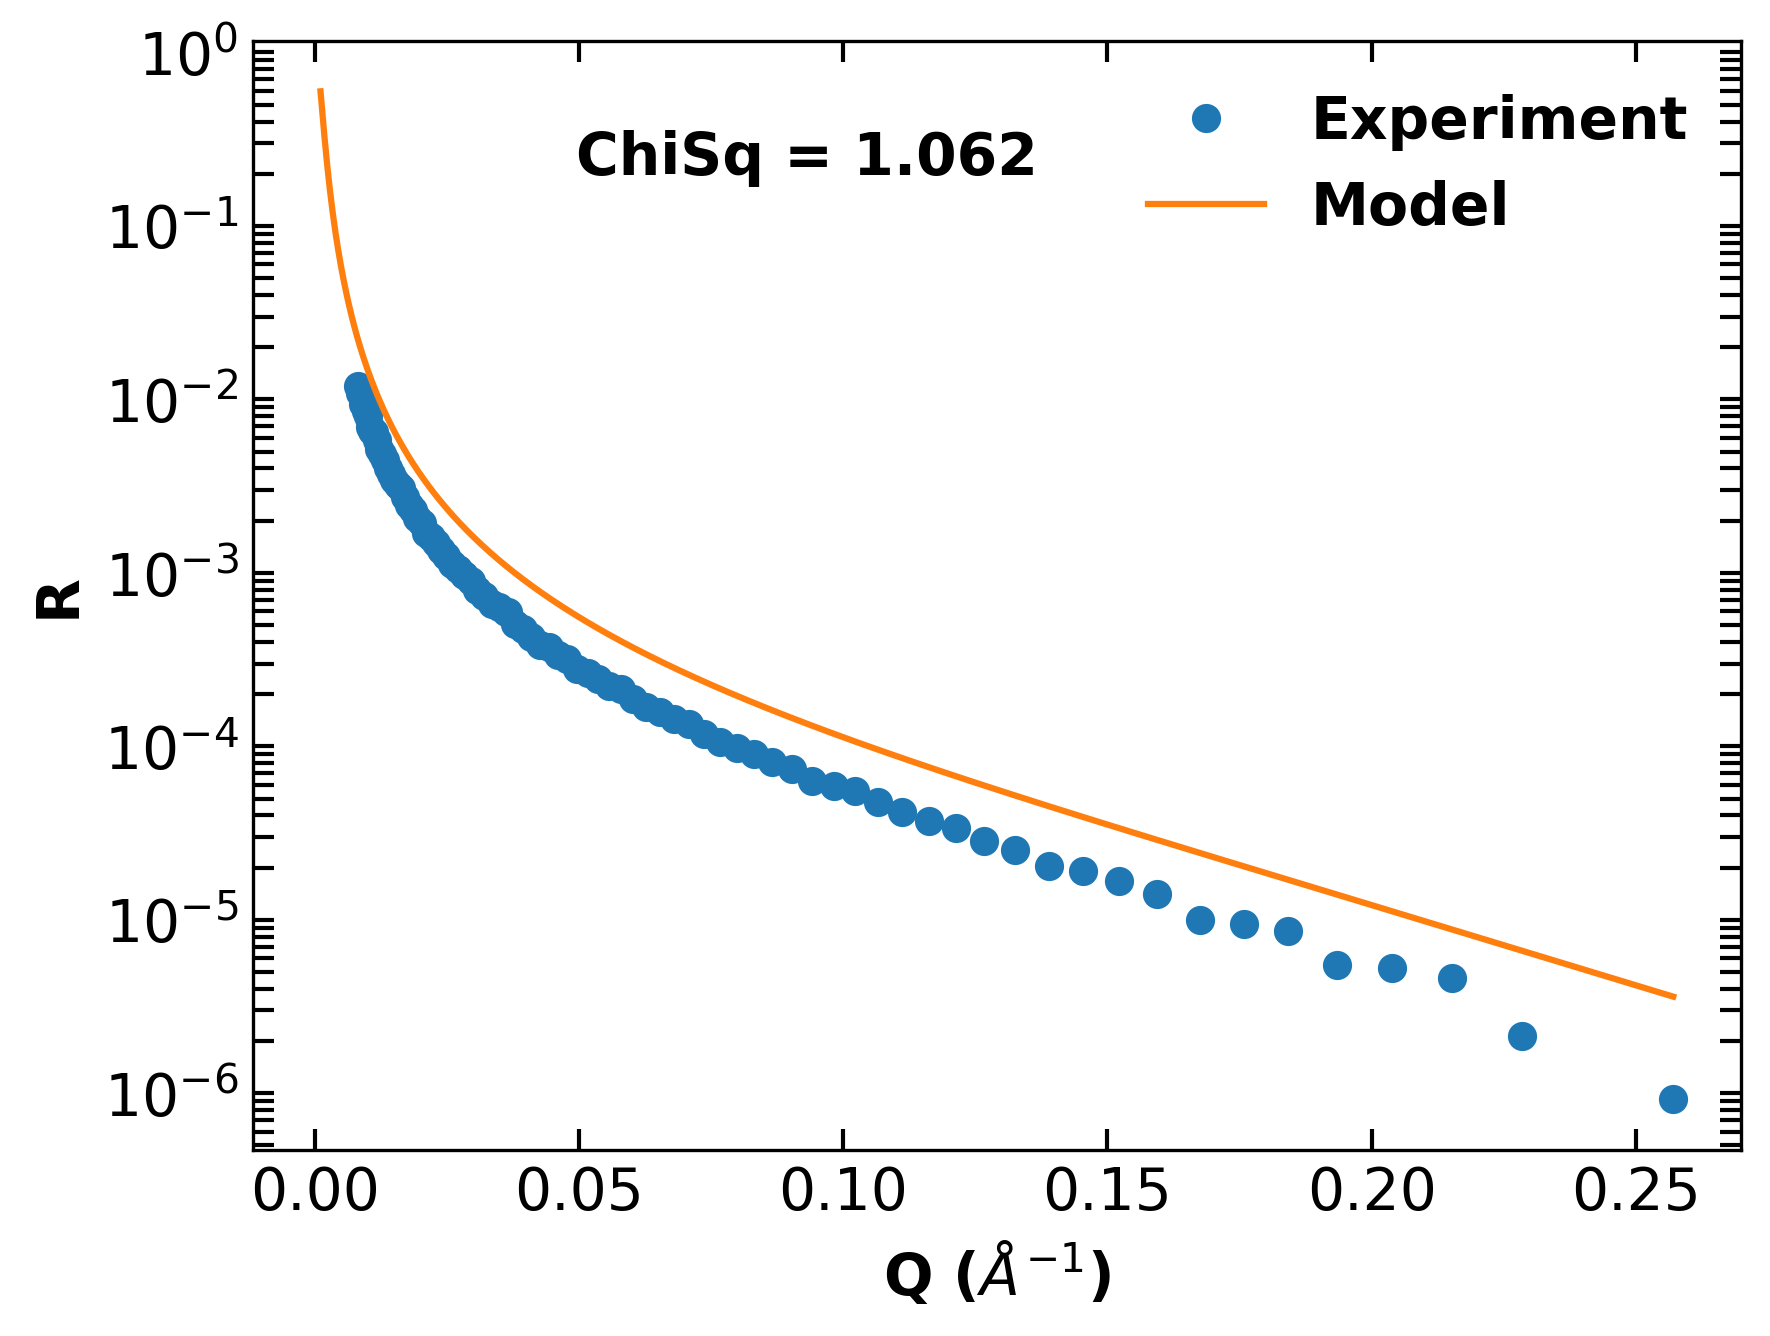
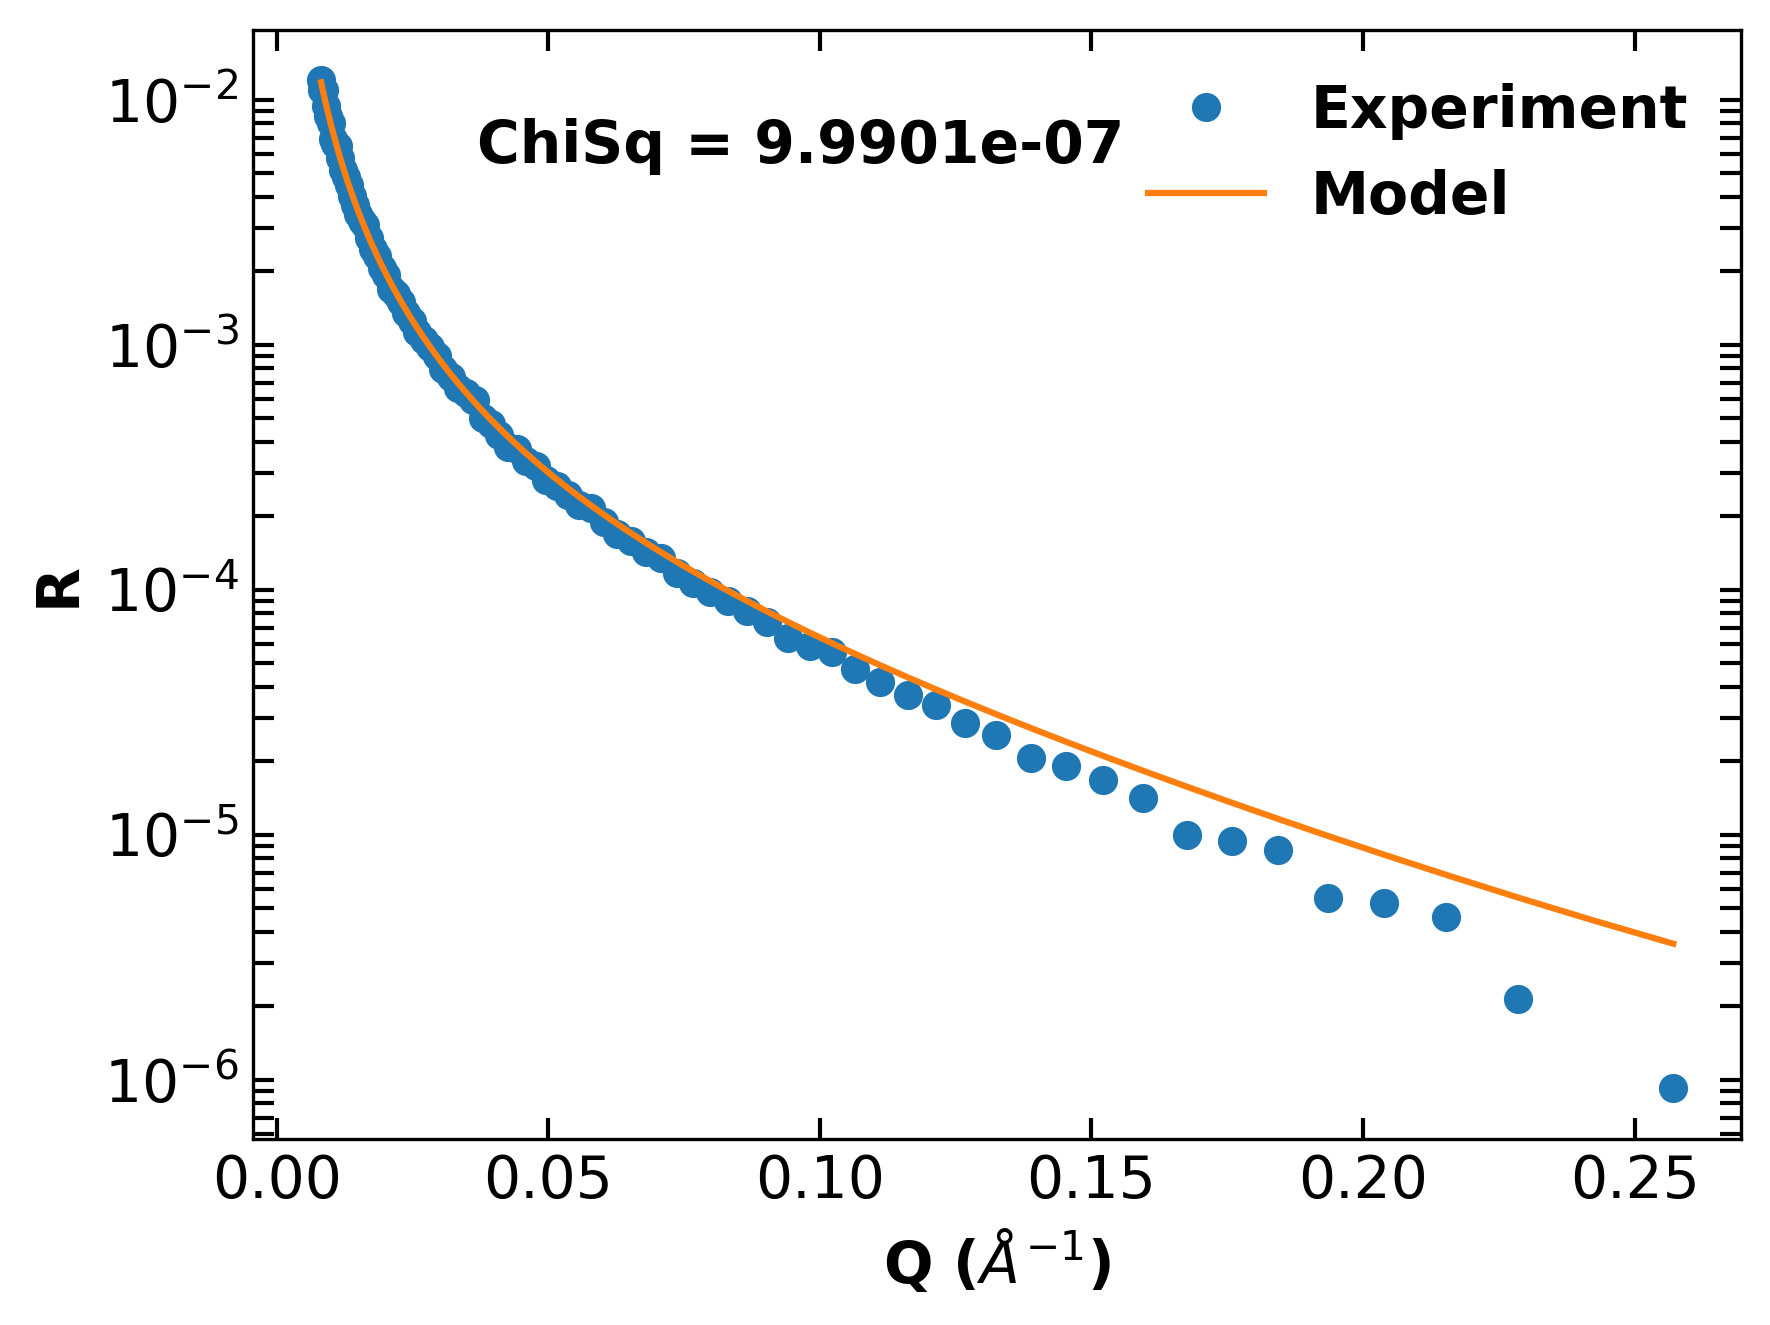
Successful proof of concept!

diff --git a/src/fitNR.py b/src/fitNR.py
@@ -1,14 +1,14 @@
 " Fit NR data "
 
 from anaklasis import ref
+from contextlib import contextmanager
 import matplotlib.pyplot as plt
 import scipy.optimize as opt
 import numpy as np
+import sys, os
 import config
 from genFunc import getFile
 
-from contextlib import contextmanager
-import sys, os
 
 @contextmanager
 def suppress_stdout():
@@ -20,11 +20,8 @@ def suppress_stdout():
         finally:
             sys.stdout = old_stdout
 
-def genModelNR(par,Q):
 
-    # unpack parameters
-    d1 = par[0]
-    d2 = par[1]
+def genModelNR(par,Q):
 
     # project name ('none' = no save)
     project='none'
@@ -32,27 +29,32 @@ def genModelNR(par,Q):
     # We have a single uniform layer with full coverage
     patches=[1.0]
 
-    # Create single model(patch) list; Re_sld Im_sld thk rough solv description
-    model=[
-    	[ 0.000e-6,   0.00e-6,    0, 0.0, 0.00, 'Air'],
-    	[ 6.19302e-6, 0.00e-6,   d1, 3.5, 0.00, 'tails'],
-    	[ 0.7262e-6,  0.00e-6,   d2, 3.5, 0.52, 'inner_heads'],
-    # 	[ 9.41e-6, 0.00e-6, 20, 3.5, 1.0, 'nucleic_acid'],
-    	[ 0.00e-6,    0.00e-6,    0, 3.5, 0.00, 'ACMW'],
-        ]
+    # unpack parameters
+    d1 = par[0]
+    d2 = par[1]
 
-    # model=[ D2O
-    # 	[ 0.000e-6,   0.00e-6,    0, 0.0, 0.00, 'Air'],
-    # 	[ -0.0730e-6, 0.00e-6,   d1, 3.5, 0.00, 'tails'],
-    # 	[ 0.7262e-6,  0.00e-6,   d2, 3.5, 0.52, 'inner_heads'],
-    # # 	[ 9.41e-6, 0.00e-6, 20, 3.5, 1.0, 'nucleic_acid'],
+    # model parameters; col = air, tails, heads, ACMW
+    Re_SLD = [0.000e-6, 6.1932e-6, 0.7262e-6, 0.00e-6]
+    Im_SLD = [0, 0, 0, 0,]
+    Thick  = [0, d1, d2, 0]
+    Rough  = [0, 3.5, 3.5, 3.5]
+    Solv   = [0, 0, 0.522, 0]
+
+    # Create single model(patch) list
+    model=[
+    	[ Re_SLD[0], Im_SLD[0], Thick[0], Rough[0], Solv[0], 'air'    ],
+    	[ Re_SLD[1], Im_SLD[1], Thick[1], Rough[1], Solv[1], 'd-tails'],
+    	[ Re_SLD[2], Im_SLD[2], Thick[2], Rough[2], Solv[2], 'heads'  ],
+    	[ Re_SLD[3], Im_SLD[3], Thick[3], Rough[3], Solv[3], 'ACMW'   ],
+        ]
+    # 	[ 0.7262e-6,  0.00e-6,   d2, 3.5, 0.52, 'h-tails'],
+    # 	[ 9.41e-6, 0.00e-6, 20, 3.5, 1.0, 'nucleic acid'],
     # 	[ 6.10e-6,    0.00e-6,    0, 3.5, 0.00, 'D2O'],
-    #     ]
 
     system       = [model]
     global_param = []
     resolution   = [0.05]
-    background   = [5.0e-7]
+    background   = [4.5e-7]
     scale        = [1.0]
     qmaxIDX      = len(Q)-1
     qmax         = [Q[qmaxIDX]]
@@ -66,15 +68,26 @@ def genModelNR(par,Q):
             res = ref.calculate(project, resolution, patches, system, global_param,
                 background, scale, qmax, plot=False)
 
-    # extract model data
-    #qminIDX = np.where(res[("reflectivity")][:,0] == Q[0])
-    modelQ  = res[("reflectivity")][:,0]
-    modelNR = res[("reflectivity")][:,1]
-
     # close all figures to prevent runtime warning
     plt.close('all')
 
-    return modelQ, modelNR
+    modelQ  = res[("reflectivity")][:,0]
+    modelNR = res[("reflectivity")][:,1]
+
+    # find the closest value in the model array
+    def closest_value(input_list, input_value):
+        arr = np.asarray(input_list)
+        idx = (np.abs(arr - input_value)).argmin()
+        return arr[idx], idx
+
+    reducedModelQ  = []
+    reducedModelNR = []
+    for qExpVal in Q:
+        closeModelqVal, closeModelqValIDX = closest_value(modelQ,qExpVal)
+        reducedModelQ.append(closeModelqVal)
+        reducedModelNR.append(modelNR[closeModelqValIDX])
+
+    return reducedModelQ, reducedModelNR
 
 
 # least square condition
@@ -91,10 +104,10 @@ def leastsquare(expNR, modelNR):
 def residuals(par, Q, expNR):
 
     modelQ, modelNR = genModelNR(par,Q)
-    print(len(Q))
-    print(len(expNR))
-    print(len(modelQ))
-    print(len(modelNR))
+    #print(len(Q))
+    #print(len(expNR))
+    #print(len(modelQ))
+    #print(len(modelNR))
 
     return leastsquare(expNR, modelNR)
 
@@ -112,18 +125,18 @@ def geneticAlgo():
     expNR = data[data.columns.values[1]]
 
     # define input parameters; d1, d2
-    d1  = 12
-    d2  = 6
+    d1  = 12.4130
+    d2  = 6.0
     par = [d1, d2]
 
     # associated parameter bounds; could fix pars by defining in model function
-    d1_lb  = 15
-    d1_ub  = 25
+    d1_lb  = 10
+    d1_ub  = 20
     d2_lb  = 5
-    d2_ub  = 15
+    d2_ub  = 10
     bounds = [(d1_lb,d1_ub),(d2_lb,d2_ub)]
 
-    # x[1] (d2) < d2_lb and > x[0] (d1)
+    # define constraints; x[1] (d2) < d2_lb and > x[0] (d1)
     #print(par[1])
     #print(d2_lb)
     #print(par[0])
@@ -145,7 +158,7 @@ def geneticAnalysis(geneticOutput, Q, expNR):
 
     # associated cost
     lstsq = residuals(solution, Q, expNR)
-    print("\nCost of chosen solution: %f" %lstsq)
+    print("\nCost of chosen solution: %.8e" %lstsq)
 
     # number of iterations
     print("\nNumber of iterations: %s" %geneticOutput.nit)
@@ -158,9 +171,6 @@ def geneticAnalysis(geneticOutput, Q, expNR):
 
     # generate figure
     fig, ax = plt.subplots()
-
-    #for spine in ['top', 'right', 'bottom', 'left']:
-    #    ax.spines[spine].set_linewidth(2)
 
     with suppress_stdout():
         modelQ, modelNR = genModelNR(solution,Q)
@@ -189,9 +199,9 @@ def geneticAnalysis(geneticOutput, Q, expNR):
     plt.grid(False)
 
     # chiSq annotation
-    chiSqText = 'ChiSq = ' + "{:.3f}".format(lstsq) + ''
+    chiSqText = 'ChiSq = ' + "{:.4e}".format(lstsq) + ''
     props     = dict(boxstyle='none', facecolor='none', alpha=0.5)
-    plt.text(1.0, 3.0, chiSqText, transform=ax.transAxes, fontsize=fs, fontweight='bold')
+    plt.text(0.80, 3.0, chiSqText, transform=ax.transAxes, fontsize=fs, fontweight='bold')
 
     # tight layout function
     plt.tight_layout()

diff --git a/src/config.py b/src/config.py
@@ -1,4 +1,4 @@
-" Module that defines variables for NRfits"
+" Module that defines variables for fitNR"
 
 ##############
 # File Paths #
@@ -9,27 +9,16 @@ outputDir = "../../UoM-Data-Repository/output"
 
 # dict of input instructions names and output file names
 pathNames = {
-    "NRanalysis":      ('Instructions - NR', 'NR'),
+    "NRanalysis": ('Instructions - NR', 'NR'),
     }
-
 
 #################
 # Print Options #
 #################
 
 # determine levels of print output to terminal for debugging
-verbose      = True
+verbose      = False
 very_verbose = False
-
-
-##########
-# NRfits #
-##########
-
-
-
-
-
 
 #################
 # SLD Analysis #
